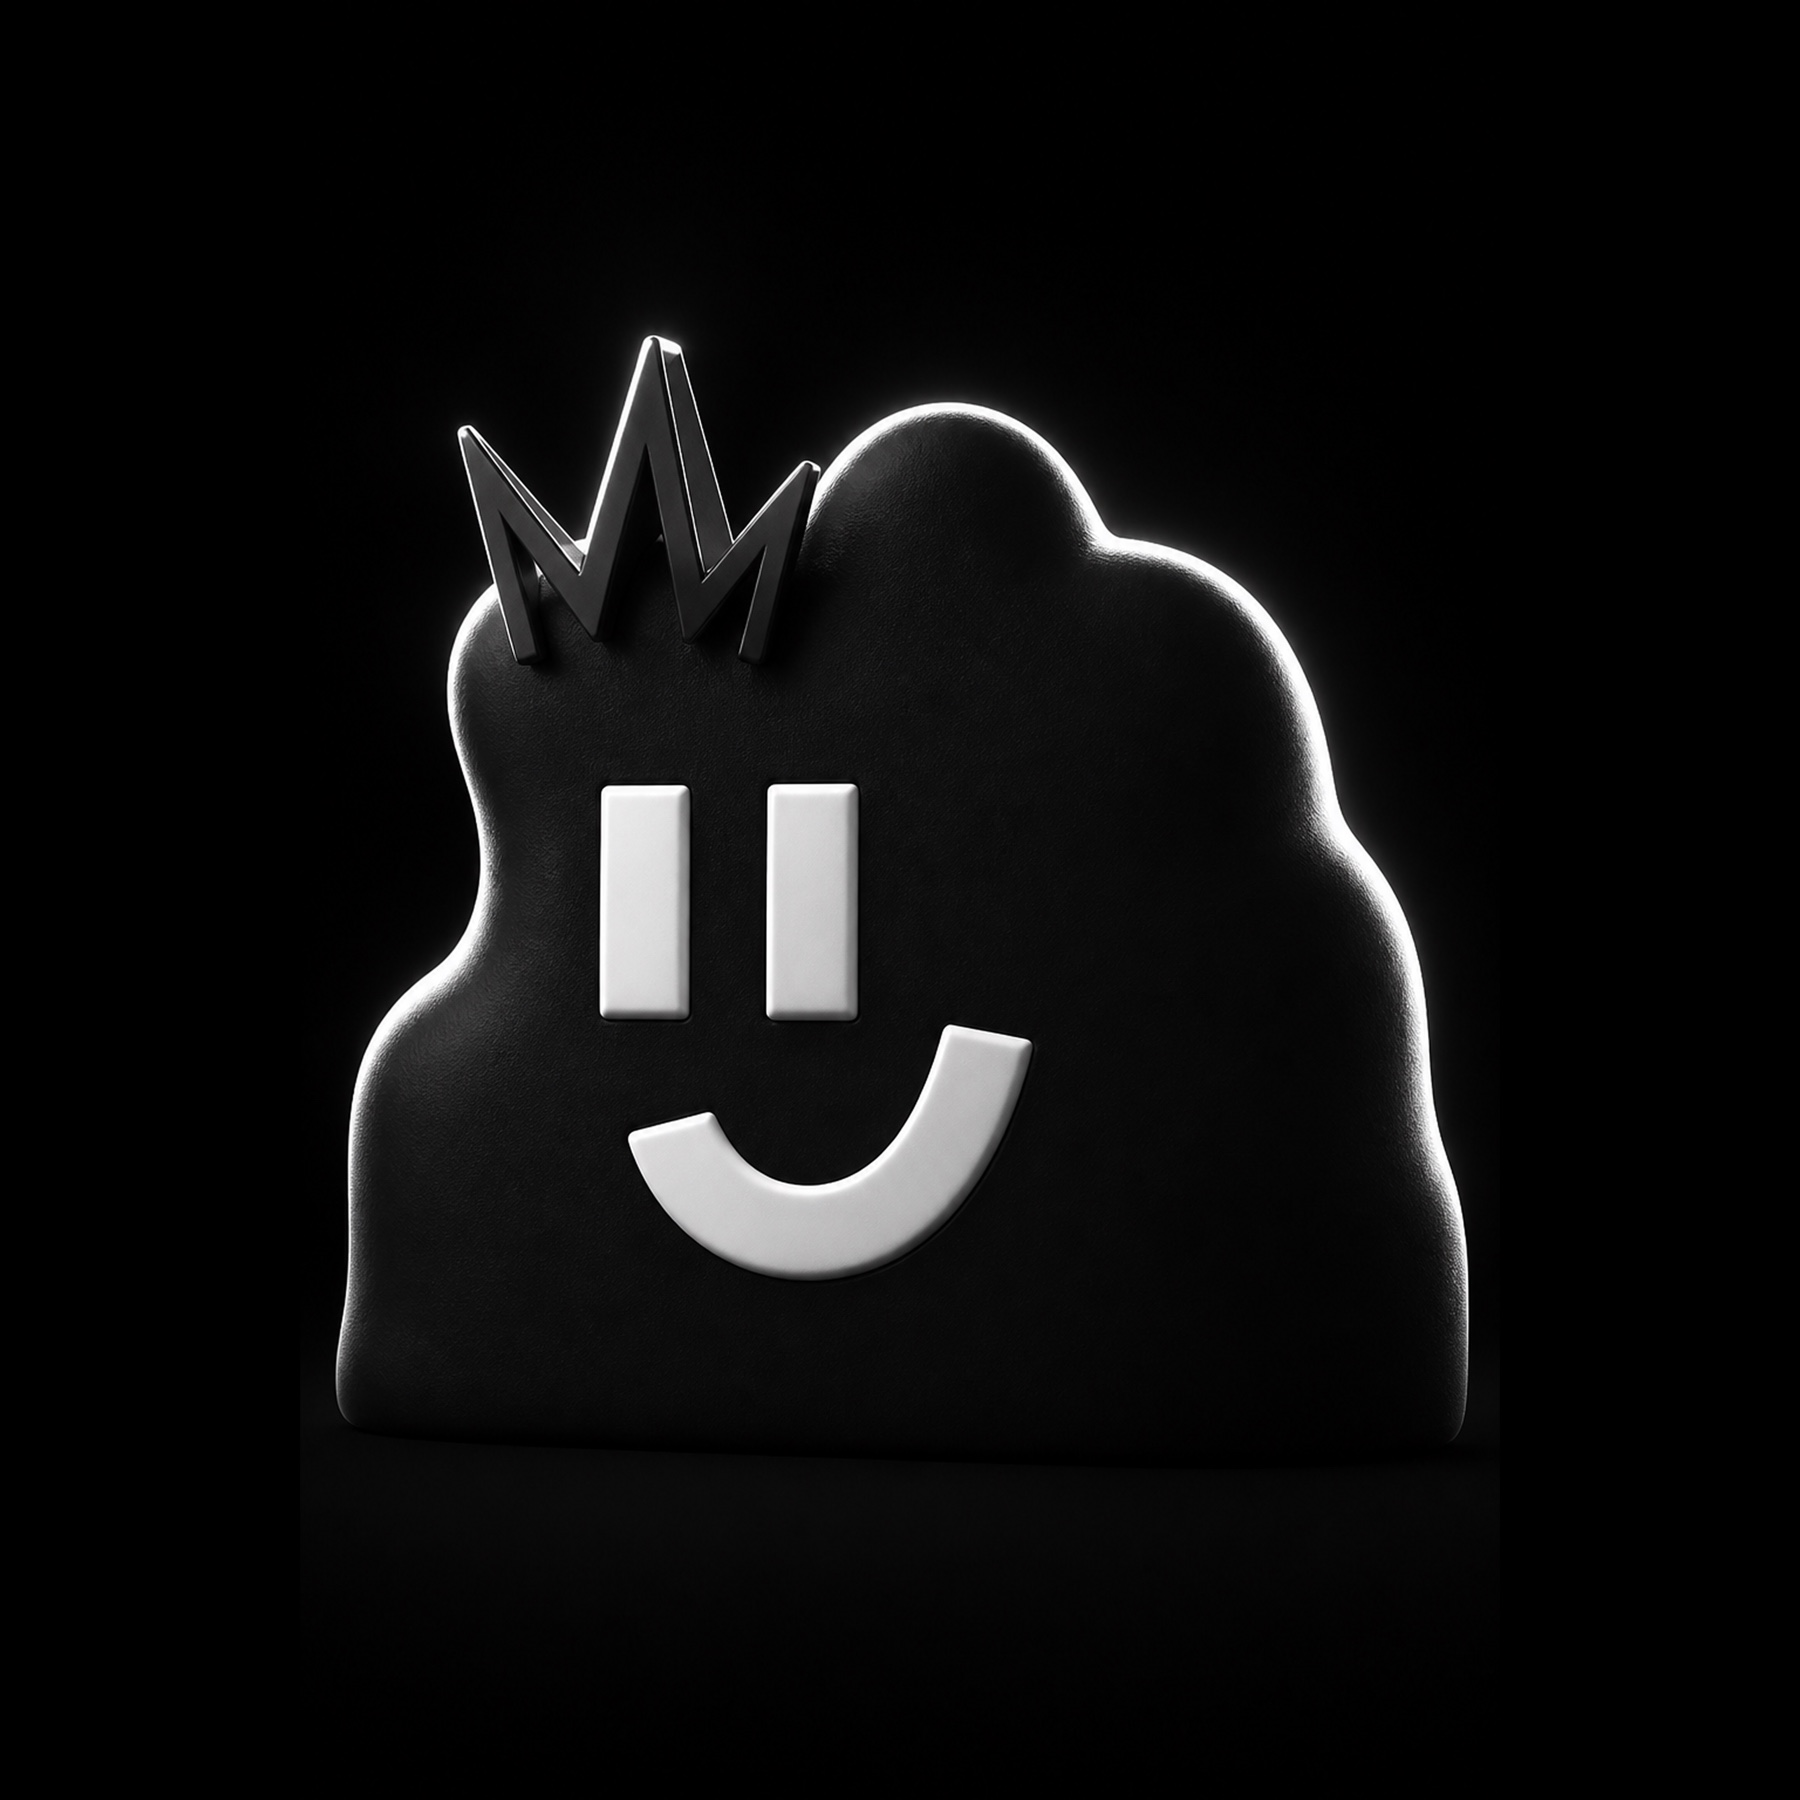
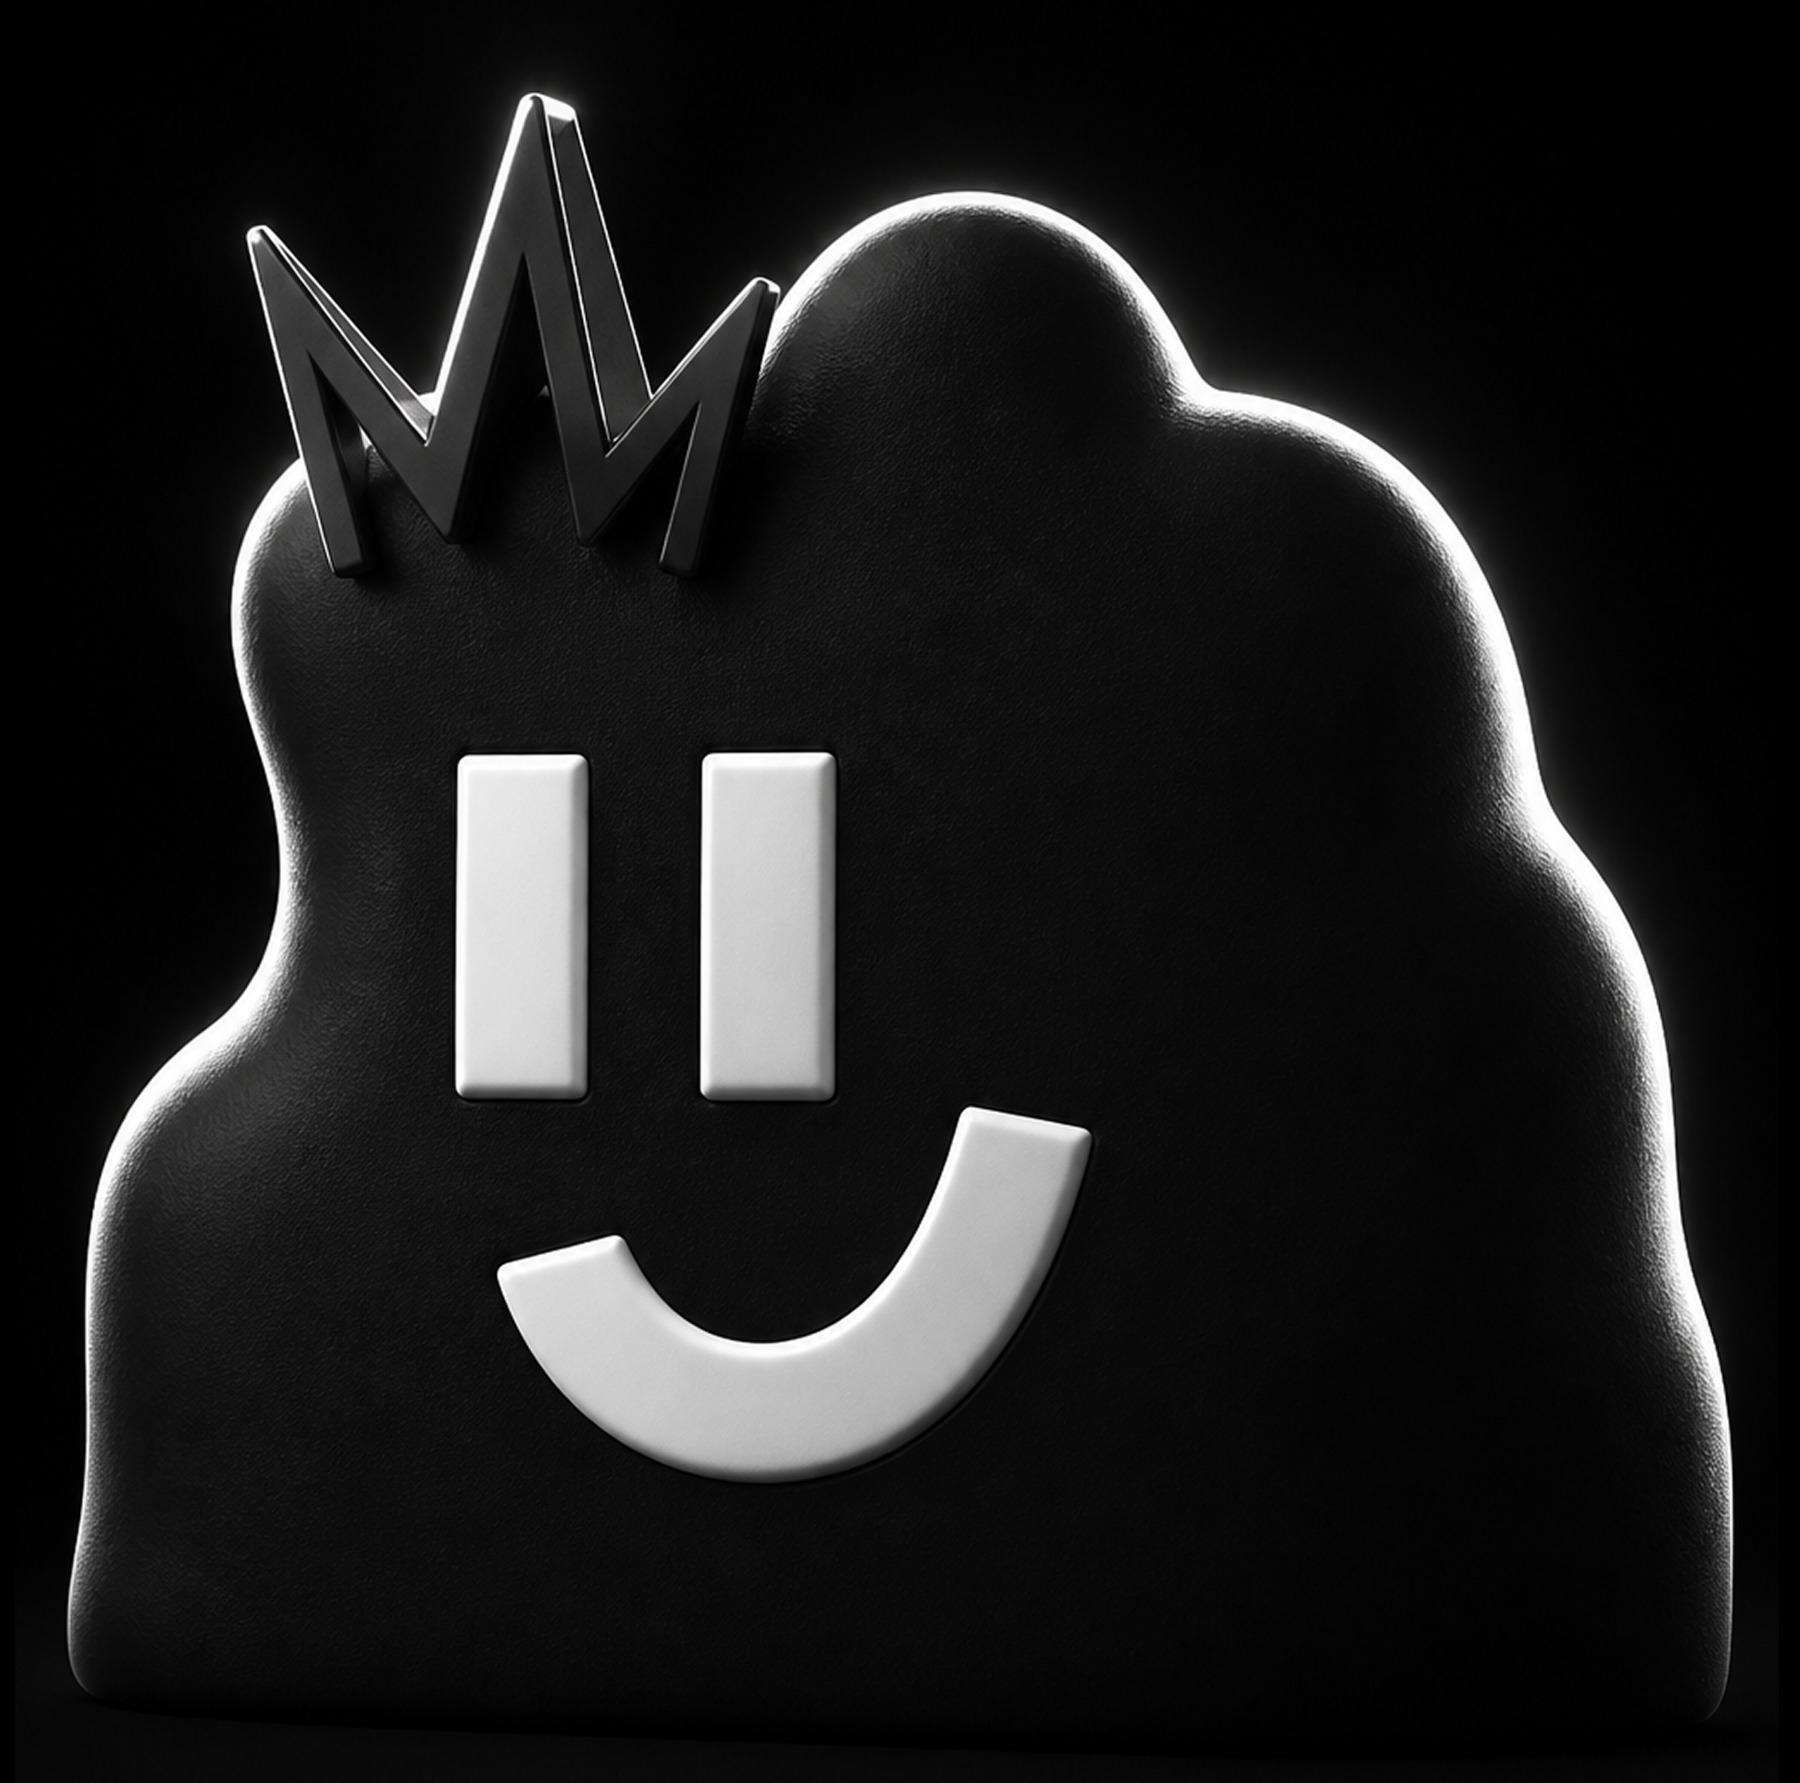
feat(store): 默认形象图裁到角色本体、铺满右侧；商品大图去掉鼠标跟随 v1.0.8
- assets/hero-default.jpg 重新处理：原图 3945² 里角色只占约 63%，
  用 canvas 扫出非黑包围盒 [734,694,3220,3156] 后裁到本体（留 4% 边），
  输出 1800×1783 / 336KB，contain 时角色能占满画幅高度
- shop.css：.hero-photo 恢复 transform: scale(1)（商品图不放大、不跟鼠标），
  will-change 只留在 .hero.is-idle 上；shop.css?v= 升到 20261025b
- hero-parallax.js：仅当 #hero 带 .is-idle 时才计算位移/放大；
  选中商品后缓动回原位并把 inline transform 清掉，交给 CSS
- 实测（线上 1440×900）：默认态 contain + translate3d 随鼠标变化；
  选中后 transform 为 none，鼠标怎么移都不动
- release.js -> 1.0.8，已重打 dmg 并部署

Changed region(s): [[0.0311, 0.0308, 0.9644, 0.9563]]

diff --git a/hero-parallax.js b/hero-parallax.js
@@ -1,8 +1,10 @@
 /* 右侧主图跟随鼠标（作品集同款视差）
+   - 只作用在「默认态」的形象图（#hero.is-idle）：还没选商品时它跟着鼠标轻微移动
+   - 选了商品之后商品大图必须静止，脚本会把位移/放大缓动回原位
    - 指针在整个窗口追踪，映射到 hero 自身范围，缓动跟随，手感与作品集一致
    - 放大倍数按区域尺寸动态算，保证位移到极限也不露边
    - 悬浮时轻微再推近（替代原来 CSS 的 :hover scale）
-   - 触摸设备 / 关闭动态效果偏好：直接不启用，退回静态轻微放大 */
+   - 触摸设备 / 关闭动态效果偏好：直接不启用 */
 (function () {
   var MAX_X = 18;            // 水平最大位移 px
   var MAX_Y = 12;            // 垂直最大位移 px
@@ -63,19 +65,30 @@
     if (!hero || !photo) return;
     var rect = hero.getBoundingClientRect();
     if (rect.width < 2 || rect.height < 2) return;
-    baseScale = computeBaseScale(rect);
-    var cx = rect.left + rect.width * 0.5;
-    var cy = rect.top + rect.height * 0.5;
-    var nx = clamp((pointer.x - cx) / (rect.width * 0.5), -1, 1);
-    var ny = clamp((pointer.y - cy) / (rect.height * 0.5), -1, 1);
-    var tx = nx * MAX_X;
-    var ty = ny * MAX_Y;
-    var ts = hovering ? baseScale + HOVER_BONUS : baseScale;
+
+    /* 只有默认态（.is-idle，还没选商品）的形象图跟鼠标动；
+       选了商品之后商品大图要静止，这里缓动回原位 */
+    var tx = 0;
+    var ty = 0;
+    var ts = 1;
+    var idle = hero.classList.contains("is-idle");
+    if (idle) {
+      baseScale = computeBaseScale(rect);
+      var cx = rect.left + rect.width * 0.5;
+      var cy = rect.top + rect.height * 0.5;
+      var nx = clamp((pointer.x - cx) / (rect.width * 0.5), -1, 1);
+      var ny = clamp((pointer.y - cy) / (rect.height * 0.5), -1, 1);
+      tx = nx * MAX_X;
+      ty = ny * MAX_Y;
+      ts = hovering ? baseScale + HOVER_BONUS : baseScale;
+    }
+
     var moved = false;
     if (Math.abs(tx - pos.x) > EPS) { pos.x += (tx - pos.x) * EASE; moved = true; }
     if (Math.abs(ty - pos.y) > EPS) { pos.y += (ty - pos.y) * EASE; moved = true; }
     if (Math.abs(ts - scale) > 0.0004) { scale += (ts - scale) * EASE; moved = true; }
     if (moved) paint();
+    else if (!idle && photo.style.transform) photo.style.transform = ""; // 商品图归位后交还给 CSS
   }
 
   function stop() {
@@ -112,13 +125,15 @@
     if (!hero || !photo) return;
     if (mq("(prefers-reduced-motion: reduce)") || !mq("(hover: hover)")) return;
 
-    var r = hero.getBoundingClientRect();
-    if (r.width > 2 && r.height > 2) {
-      baseScale = computeBaseScale(r);
-      scale = baseScale;
-    }
     centerPointer();
-    paint();
+    if (hero.classList.contains("is-idle")) {
+      var r = hero.getBoundingClientRect();
+      if (r.width > 2 && r.height > 2) {
+        baseScale = computeBaseScale(r);
+        scale = baseScale;
+      }
+      paint();
+    }
 
     window.addEventListener("pointermove", onPointer, { passive: true });
     document.documentElement.addEventListener("pointerleave", onLeave, { passive: true });

diff --git a/shop.css b/shop.css
@@ -323,16 +323,15 @@ img { display: block; max-width: 100%; }
   background-position: center 20%;
   background-repeat: no-repeat;
   opacity: .92;
-  /* 基础放大留给 hero-parallax.js 做位移余量；transform 由脚本逐帧接管，
-     所以这里不再给 transform 加过渡，否则会拖影 */
-  transform: scale(1.055);
+  /* 商品大图保持原样：不放大、不跟鼠标（动效只留给默认态的形象图） */
+  transform: scale(1);
   transition: opacity .7s ease;
-  will-change: transform;
 }
 .hero-photo.is-dim { opacity: .3; }
 
 /* 默认态（还没点任何商品）：右侧只有 Moru 形象图，跟着鼠标动，
-   没有标题 / 参数 / 检视档案 / 全屏提示。图边缘是纯黑，铺在 #000 上不会有接缝 */
+   没有标题 / 参数 / 检视档案 / 全屏提示。图已裁到角色本体边界（几乎正方形），
+   contain 让它在任何画幅里都以最大尺寸完整居中；图边缘是纯黑，铺在 #000 上无接缝 */
 .hero.is-idle {
   background: #000;
   cursor: default;
@@ -341,6 +340,8 @@ img { display: block; max-width: 100%; }
   background-size: contain;
   background-position: center center;
   opacity: 1;
+  transform: scale(1.055); /* 无 JS 时的兜底；有 JS 由脚本按尺寸算 */
+  will-change: transform;
 }
 .hero.is-idle .hero-shade,
 .hero.is-idle .hero-center,

diff --git a/assets/moru/release.js b/assets/moru/release.js
@@ -1,8 +1,8 @@
 // Auto-generated by scripts/release.sh — 不要手改
 // Moru 助手读取这个文件判断有没有新版本（跨域 script，免 CORS）
 window.__MORU_RELEASE__ = {
-  "version": "1.0.7",
+  "version": "1.0.8",
   "dmgUrl": "https://longying-studio.pages.dev/download/Moru-Studio.dmg",
-  "note": "默认态右侧是 Moru 形象图，跟着鼠标动；点商品才进详情",
+  "note": "默认形象图裁到角色本体、占满右侧；商品大图不再跟鼠标",
   "publishedAt": "2026-10-25"
 };

diff --git a/cart.html b/cart.html
@@ -60,7 +60,7 @@ html.is-splash .boot { position: fixed; inset: 0; z-index: 9999; background: #00
 @media (orientation: portrait) { html.is-splash .boot { background-image: url("assets/splash/phone.webp"); } }
 html.is-splash .boot-stage { visibility: hidden; }
 </style>
-<link rel="stylesheet" href="shop.css?v=20261025a">
+<link rel="stylesheet" href="shop.css?v=20261025b">
 <link rel="stylesheet" href="moru.css?v=20261024h">
 <style>
 html, body { margin: 0; }

diff --git a/checkout.html b/checkout.html
@@ -60,7 +60,7 @@ html.is-splash .boot { position: fixed; inset: 0; z-index: 9999; background: #00
 @media (orientation: portrait) { html.is-splash .boot { background-image: url("assets/splash/phone.webp"); } }
 html.is-splash .boot-stage { visibility: hidden; }
 </style>
-<link rel="stylesheet" href="shop.css?v=20261025a">
+<link rel="stylesheet" href="shop.css?v=20261025b">
 <link rel="stylesheet" href="moru.css?v=20261024h">
 <style>
 html, body { margin: 0; }

diff --git a/index.html b/index.html
@@ -60,7 +60,7 @@ html.is-splash .boot { position: fixed; inset: 0; z-index: 9999; background: #00
 @media (orientation: portrait) { html.is-splash .boot { background-image: url("assets/splash/phone.webp"); } }
 html.is-splash .boot-stage { visibility: hidden; }
 </style>
-<link rel="stylesheet" href="shop.css?v=20261025a">
+<link rel="stylesheet" href="shop.css?v=20261025b">
 <link rel="stylesheet" href="moru.css?v=20261024h">
 <style>
 html, body { margin: 0; }

diff --git a/order.html b/order.html
@@ -60,7 +60,7 @@ html.is-splash .boot { position: fixed; inset: 0; z-index: 9999; background: #00
 @media (orientation: portrait) { html.is-splash .boot { background-image: url("assets/splash/phone.webp"); } }
 html.is-splash .boot-stage { visibility: hidden; }
 </style>
-<link rel="stylesheet" href="shop.css?v=20261025a">
+<link rel="stylesheet" href="shop.css?v=20261025b">
 <link rel="stylesheet" href="moru.css?v=20261024h">
 <style>
 html, body { margin: 0; }

diff --git a/terms.html b/terms.html
@@ -60,7 +60,7 @@ html.is-splash .boot { position: fixed; inset: 0; z-index: 9999; background: #00
 @media (orientation: portrait) { html.is-splash .boot { background-image: url("assets/splash/phone.webp"); } }
 html.is-splash .boot-stage { visibility: hidden; }
 </style>
-<link rel="stylesheet" href="shop.css?v=20261025a">
+<link rel="stylesheet" href="shop.css?v=20261025b">
 <style>
 html, body { margin: 0; }
 html { background: #131313; }
